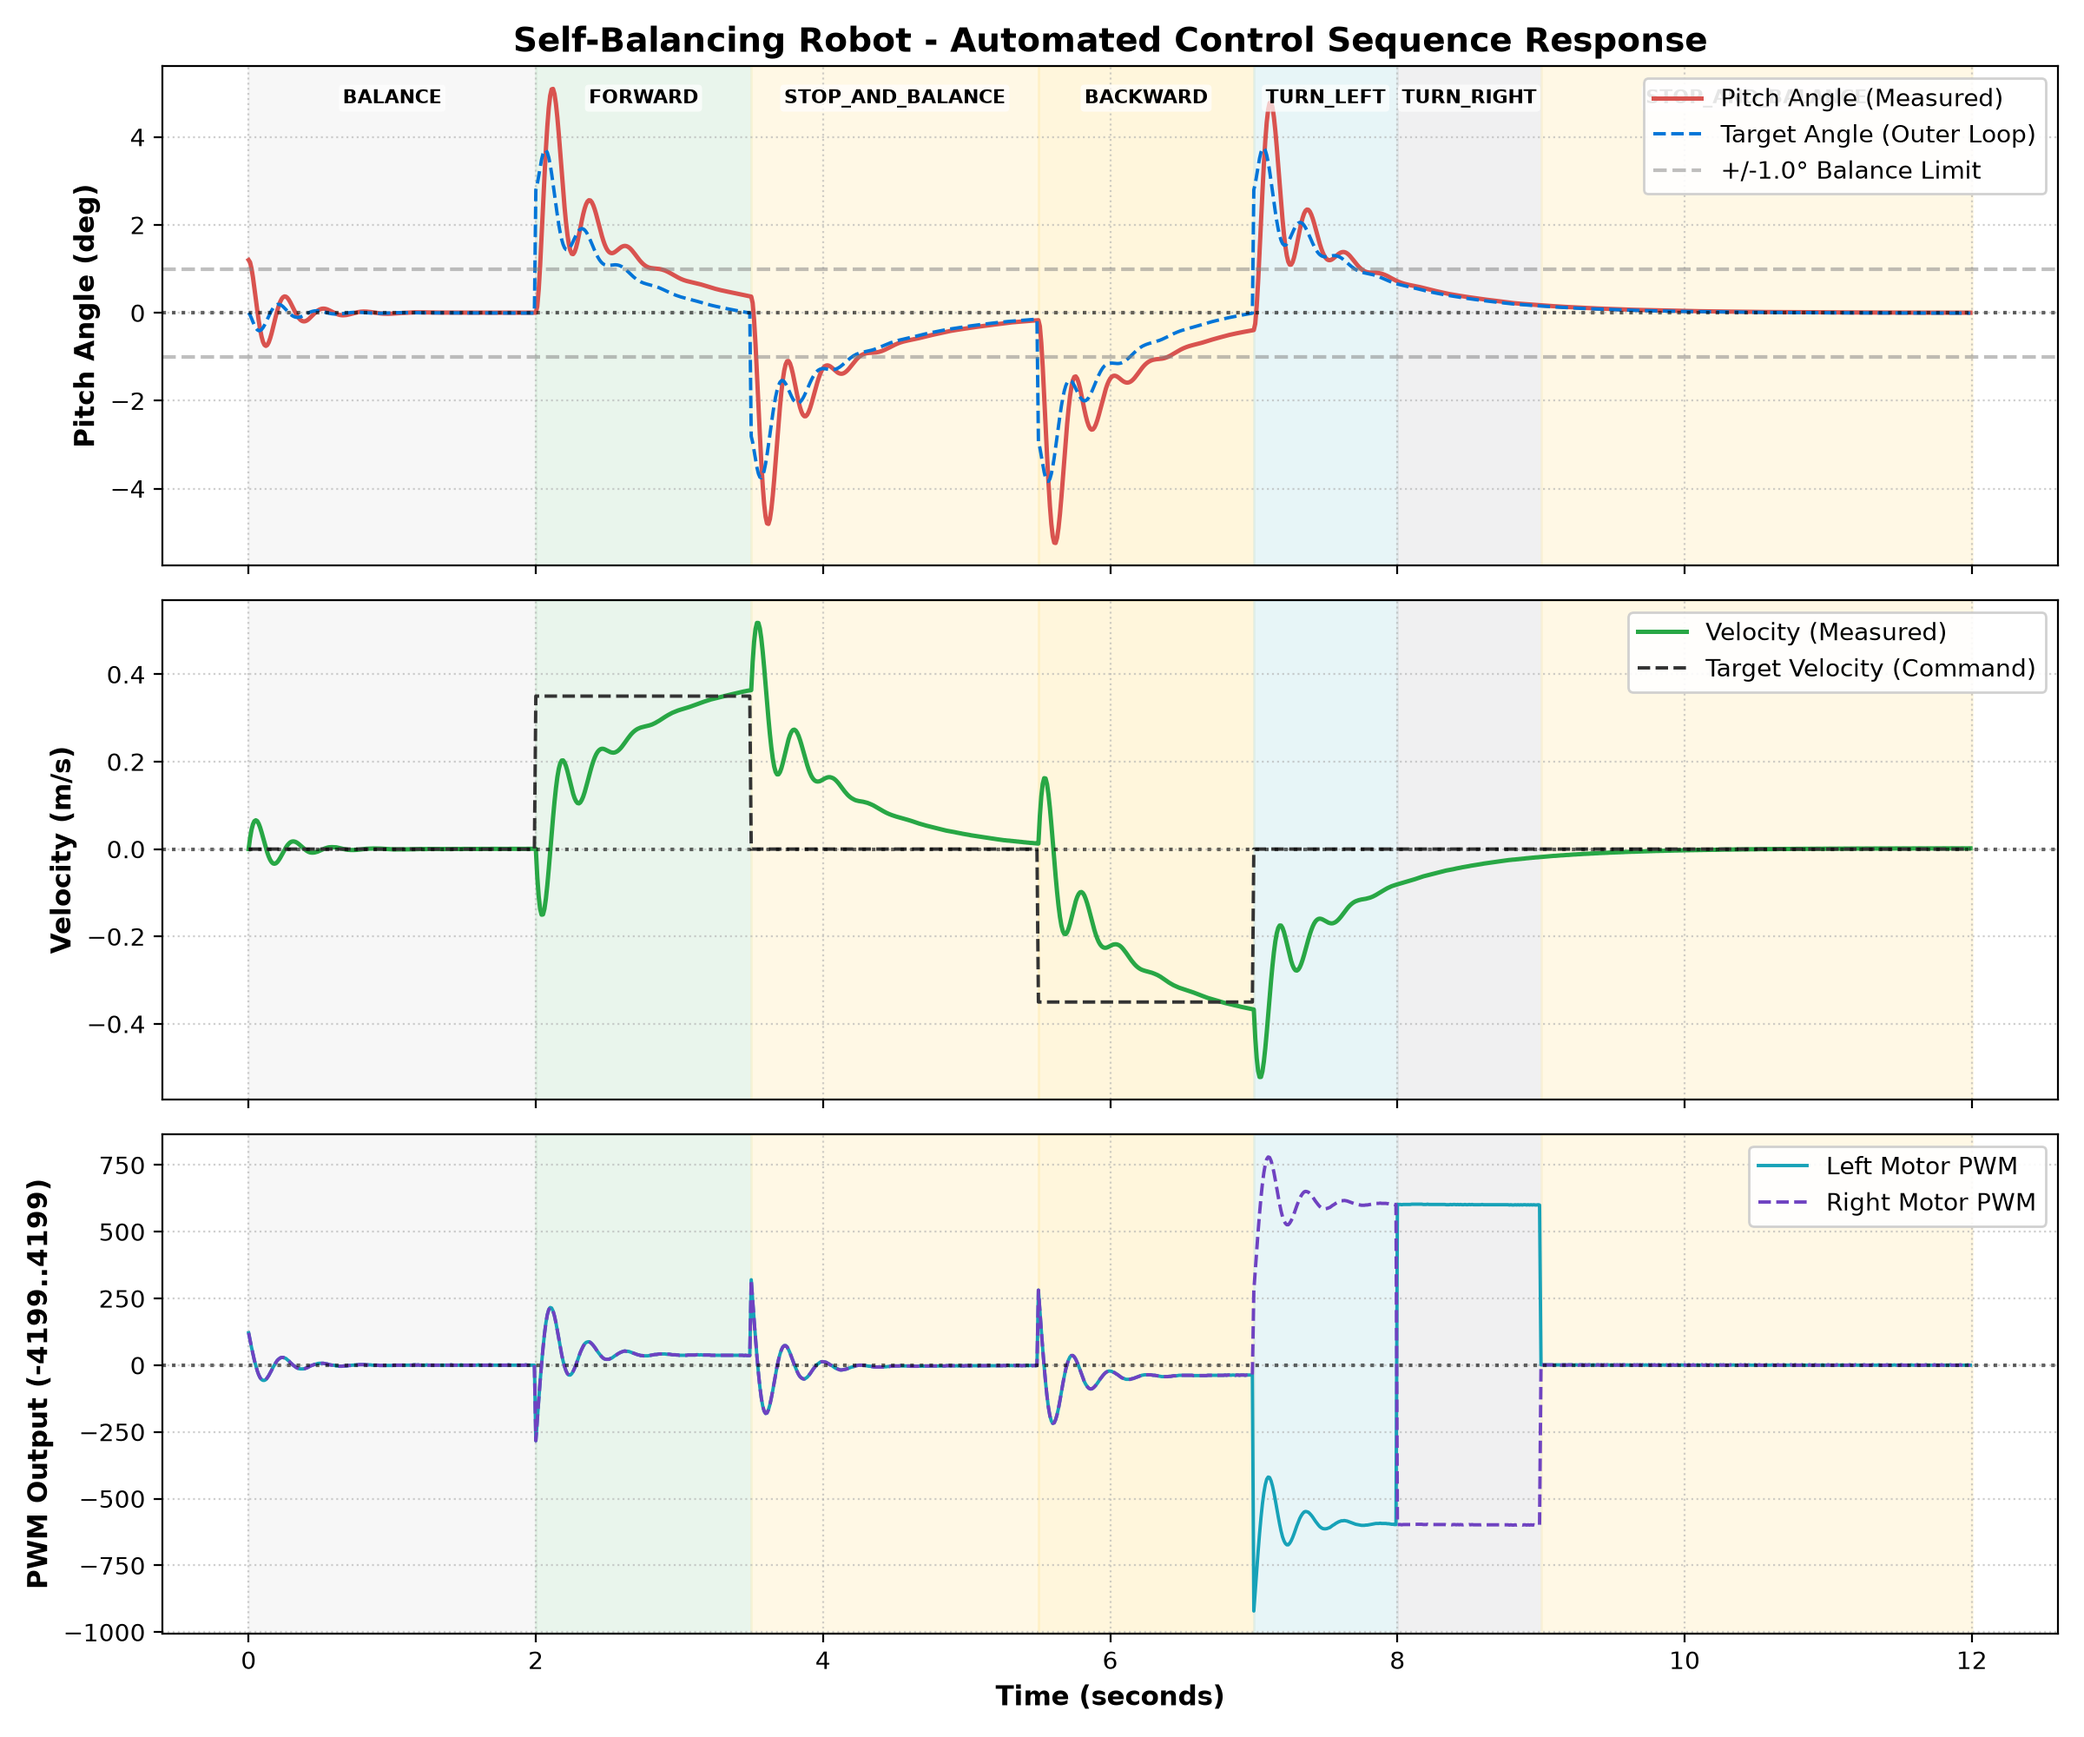
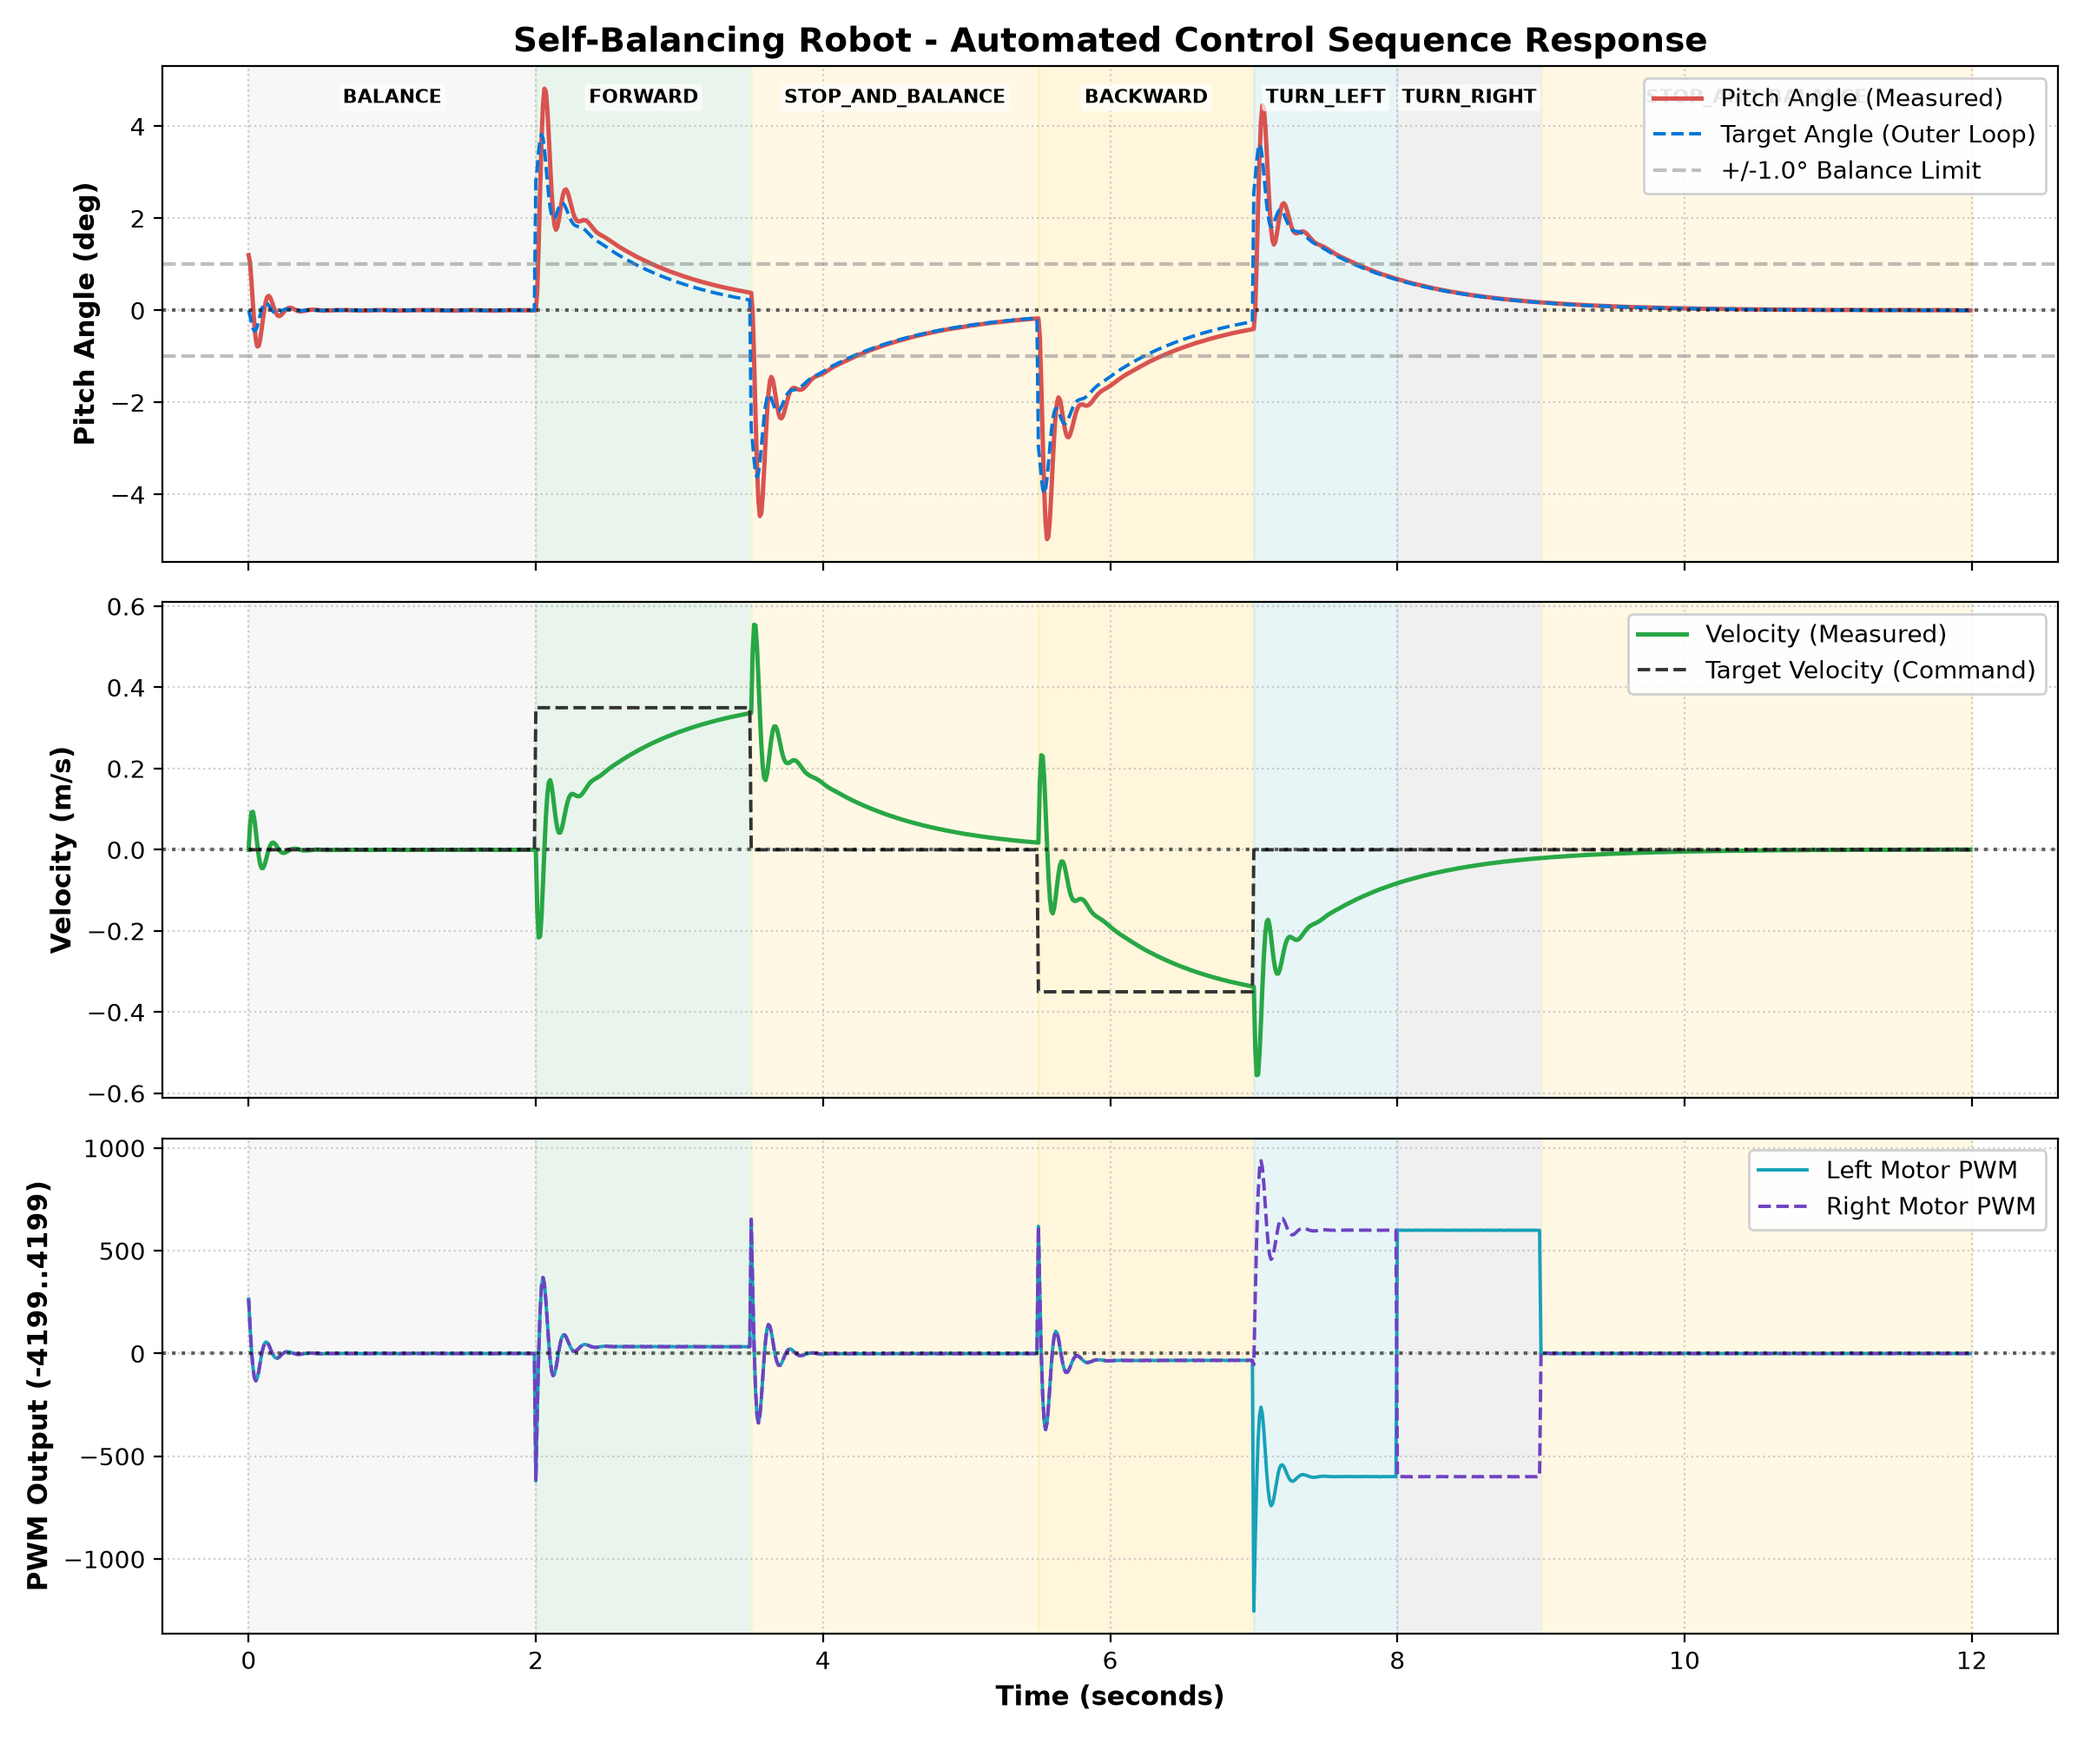
update config

diff --git a/Modules/Inc/pid_AutoConfig.h b/Modules/Inc/pid_AutoConfig.h
@@ -16,9 +16,9 @@ extern "C" {
 /* -----------------------------------------------------------------------------
  * Cascade PID Optimal Gains (Tuned via System Identification & ITAE)
  * -------------------------------------------------------------------------- */
-#define DEFAULT_ANGLE_KP            101.35f
+#define DEFAULT_ANGLE_KP            221.55f
 #define DEFAULT_ANGLE_KI            0.050f
-#define DEFAULT_ANGLE_KD            2.688f
+#define DEFAULT_ANGLE_KD            3.726f
 
 #define DEFAULT_SPEED_KP            8.00f
 #define DEFAULT_SPEED_KI            0.500f
@@ -29,7 +29,7 @@ extern "C" {
  * -------------------------------------------------------------------------- */
 #define PWM_MAX_LIMIT               4199
 #define PWM_DEADZONE_DEFAULT        450
-#define ENCODER_CPR                 330
+#define ENCODER_CPR                 1320
 #define WHEEL_RADIUS_METERS         0.0325f
 #define WHEEL_BASE_METERS           0.1600f
 
@@ -40,7 +40,7 @@ extern "C" {
 #define THETA_NORMAL_DEG            20.0f
 #define MAX_RECOVERY_ANGLE_DEG      45.0f
 #define MAX_TARGET_ANGLE_DEG        10.0f
-#define MAX_TARGET_SPEED_MPS        0.80f
+#define MAX_TARGET_SPEED_MPS        0.50f
 
 #ifdef __cplusplus
 }
